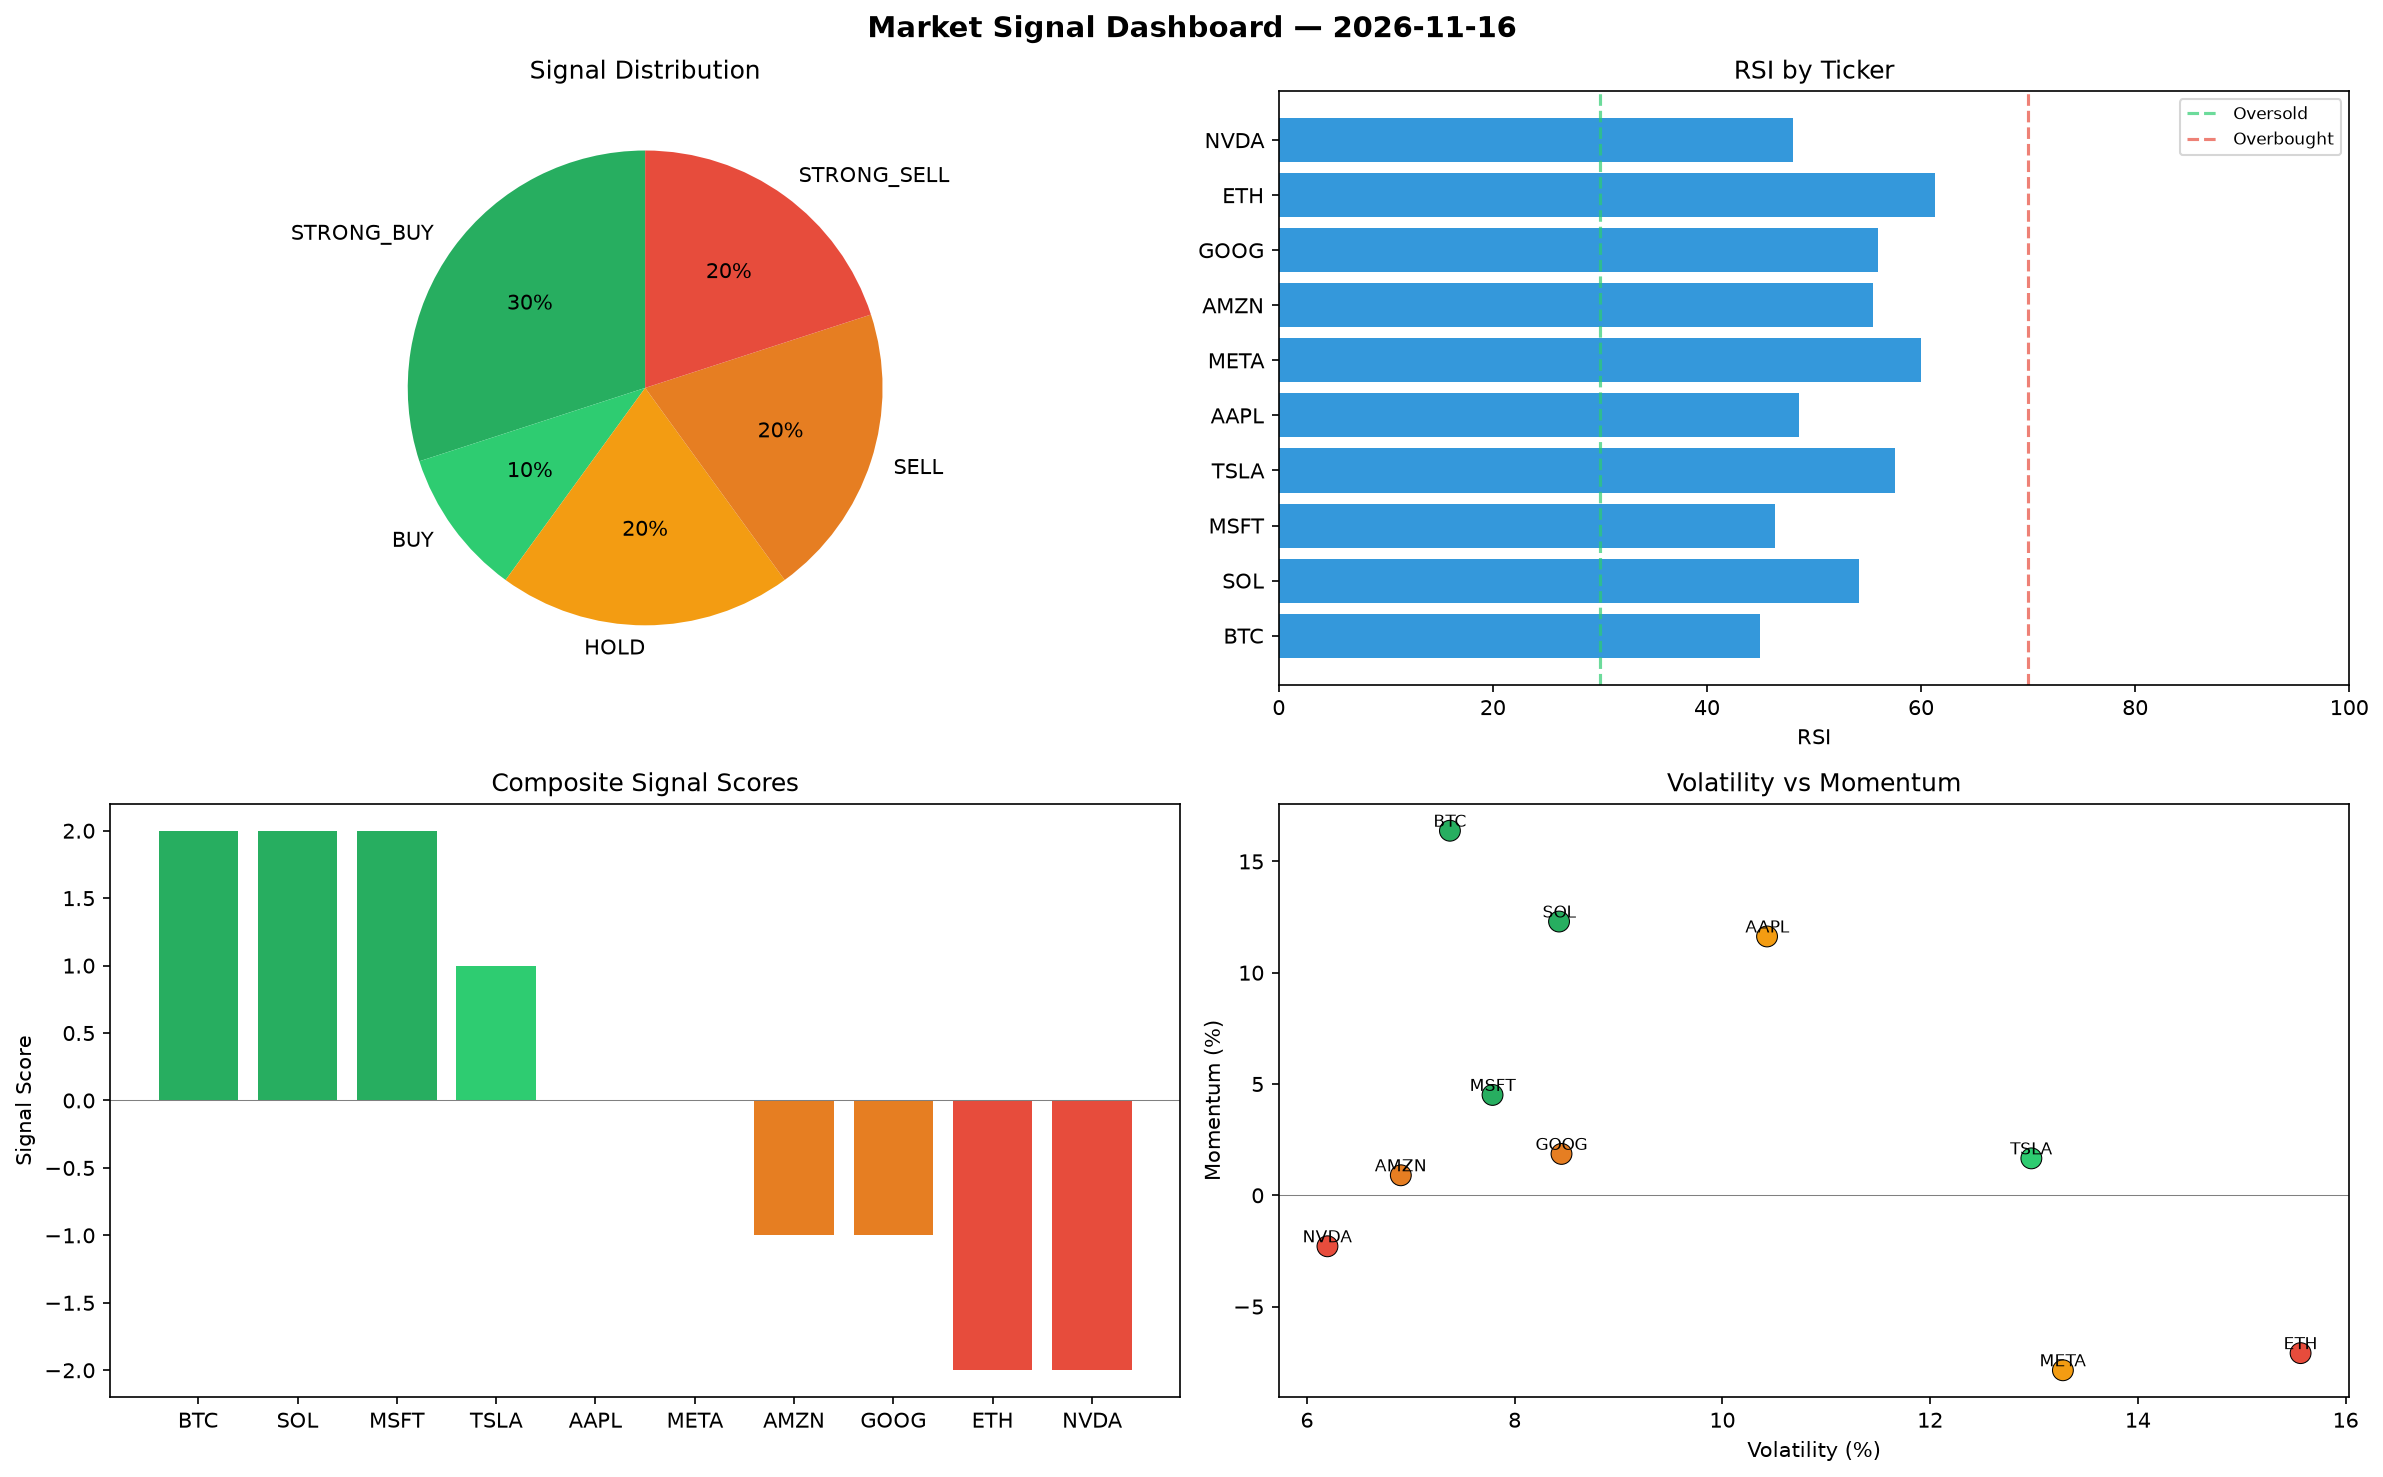
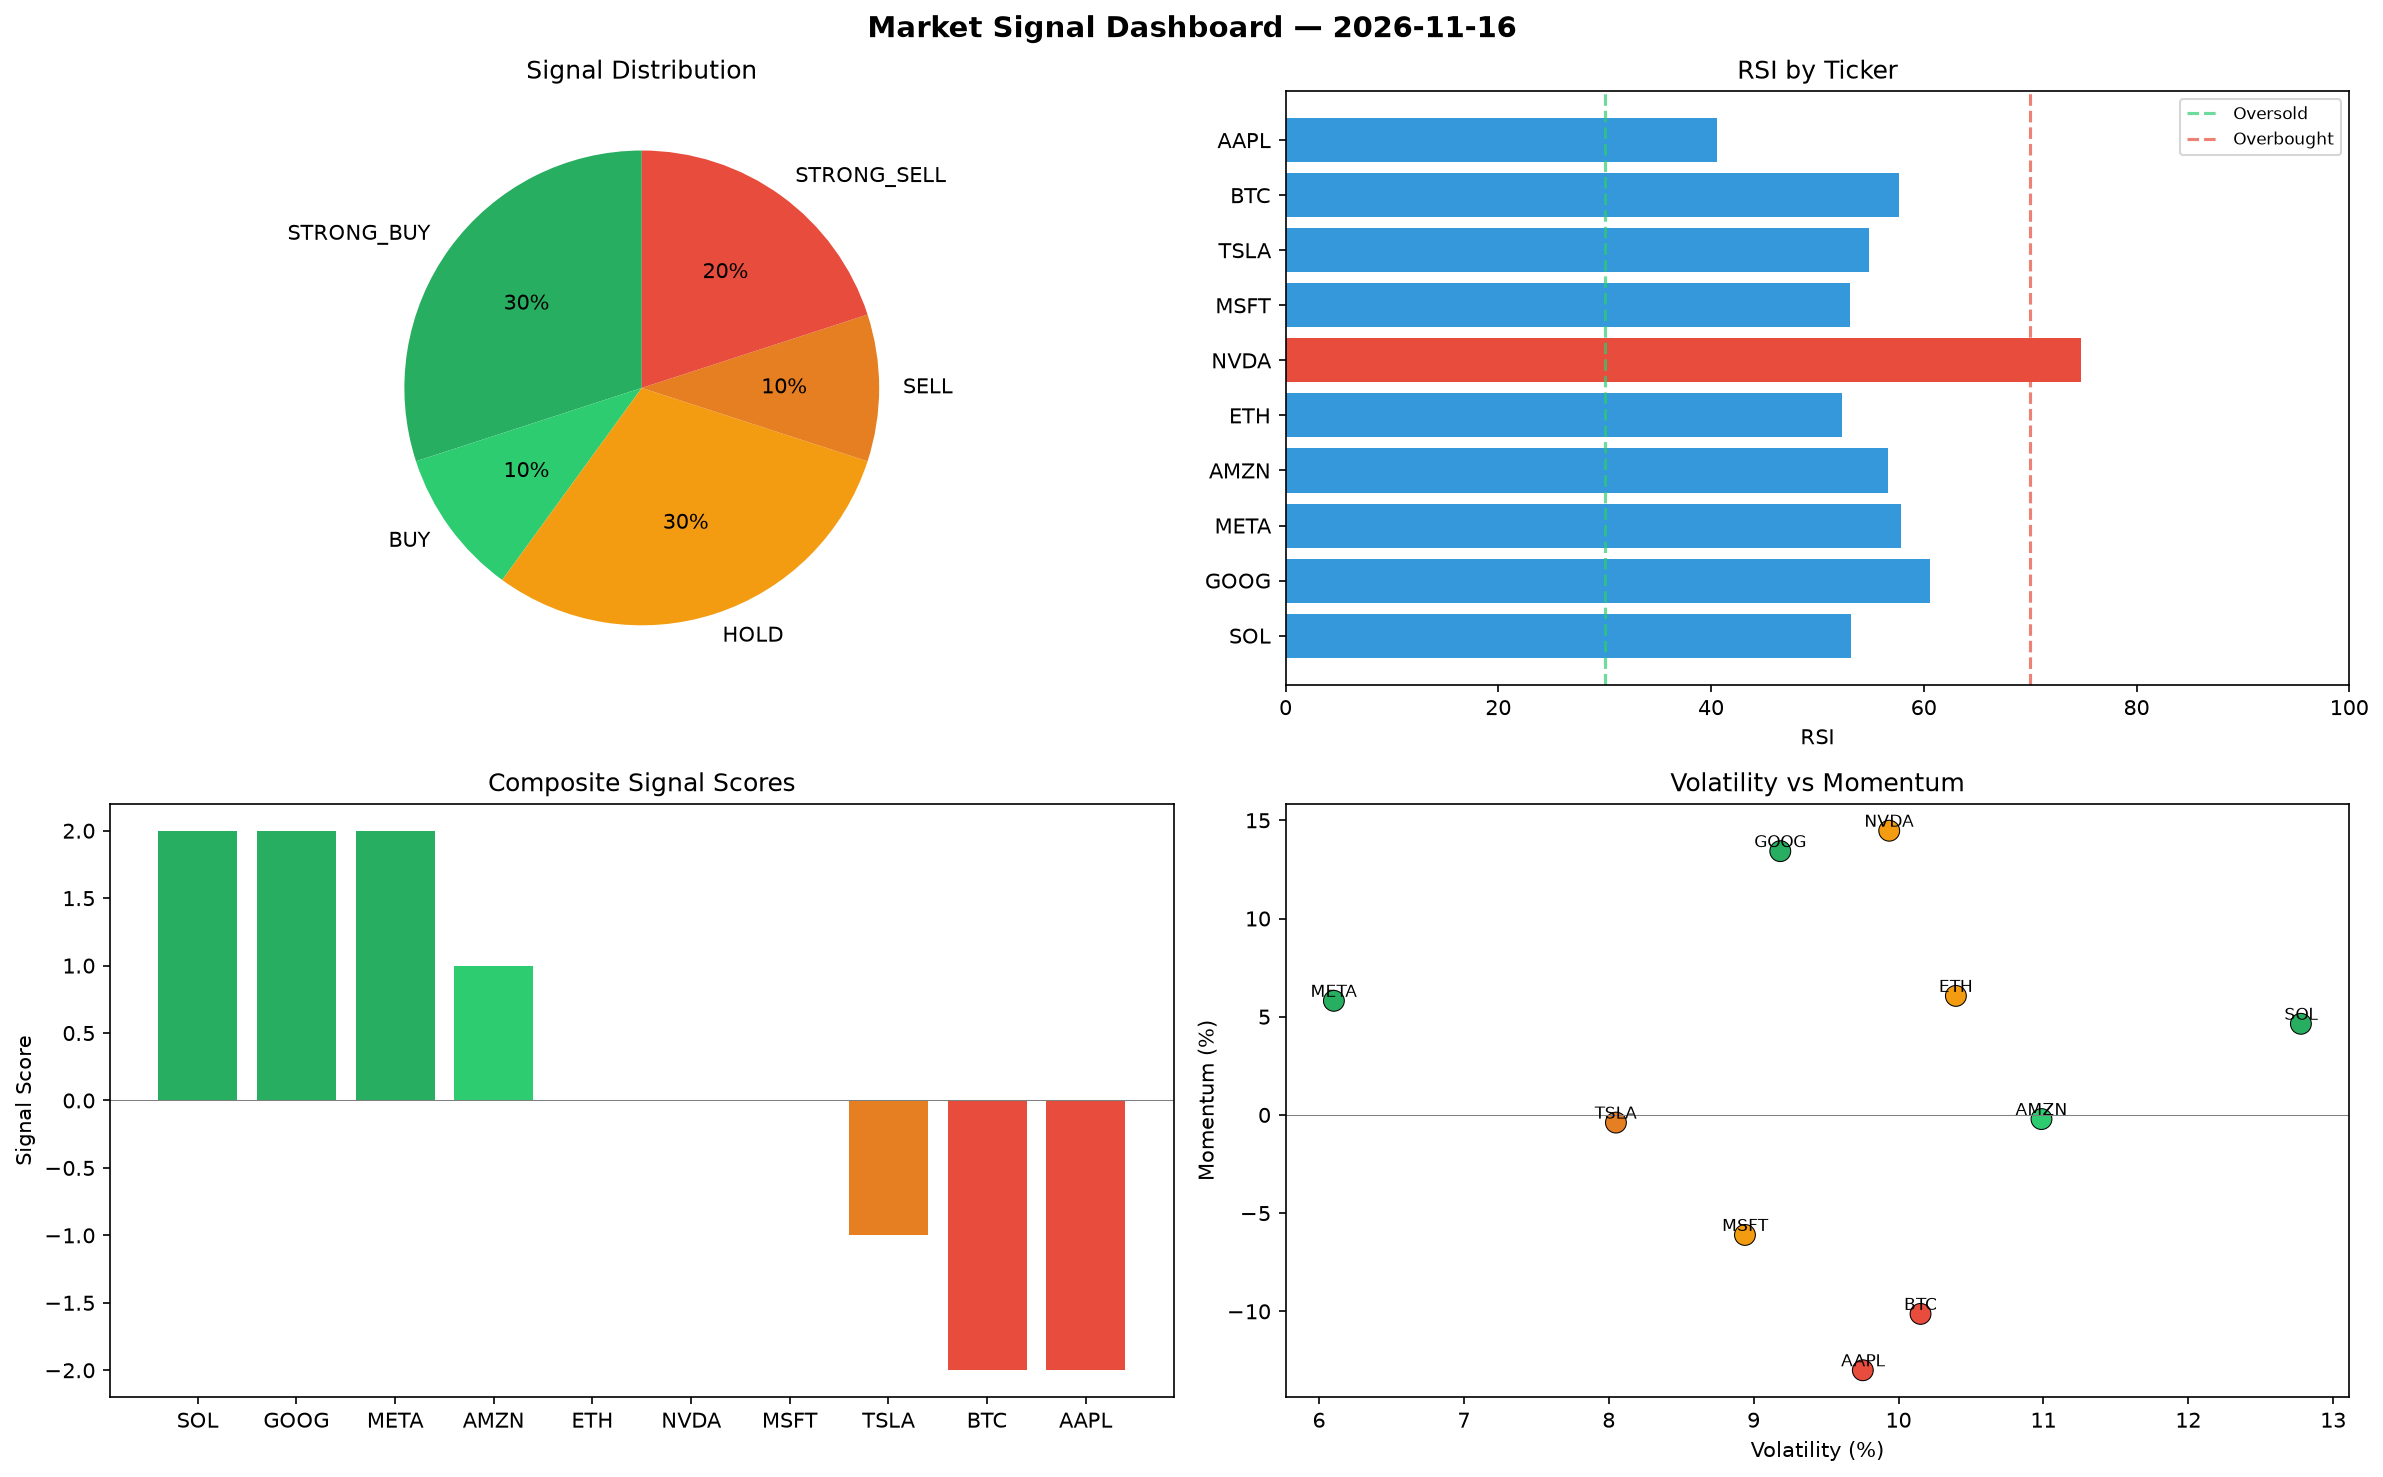
automated-bots: market signals 2026-11-16T10:00

diff --git a/logs/2026-11-16.md b/logs/2026-11-16.md
@@ -1,6 +1,6 @@
 # Market Signal Report — 2026-11-16
 
-**Run ID:** `7cb71b4982` | **Buy:** 4 | **Sell:** 4 | **Hold:** 2
+**Run ID:** `759ef7628b` | **Buy:** 4 | **Sell:** 3 | **Hold:** 3
 
 ![Dashboard](2026-11-16_dashboard.png)
 
@@ -8,28 +8,28 @@
 
 | Ticker | Price | Signal | Score | RSI | Momentum | Confidence |
 |--------|-------|--------|-------|-----|----------|------------|
-| BTC | $771.38 | **STRONG_BUY** | 2 | 44.98 | 0.1638 | 0.5 |
-| SOL | $5411.94 | **STRONG_BUY** | 2 | 54.2 | 0.123 | 0.5 |
-| MSFT | $4320.73 | **STRONG_BUY** | 2 | 46.39 | 0.0451 | 0.5 |
-| TSLA | $3794.98 | **BUY** | 1 | 57.55 | 0.0166 | 0.25 |
-| AAPL | $2514.32 | **HOLD** | 0 | 48.62 | 0.1163 | 0.0 |
-| META | $2757.64 | **HOLD** | 0 | 60.04 | -0.0786 | 0.0 |
-| AMZN | $1385.39 | **SELL** | -1 | 55.55 | 0.009 | 0.25 |
-| GOOG | $1448.34 | **SELL** | -1 | 55.97 | 0.0186 | 0.25 |
-| ETH | $2280.77 | **STRONG_SELL** | -2 | 61.27 | -0.0709 | 0.5 |
-| NVDA | $4017.14 | **STRONG_SELL** | -2 | 48.02 | -0.0229 | 0.5 |
+| SOL | $2608.21 | **STRONG_BUY** | 2 | 53.13 | 0.0464 | 0.5 |
+| GOOG | $3980.31 | **STRONG_BUY** | 2 | 60.6 | 0.1343 | 0.5 |
+| META | $2717.54 | **STRONG_BUY** | 2 | 57.84 | 0.0581 | 0.5 |
+| AMZN | $4390.32 | **BUY** | 1 | 56.66 | -0.0021 | 0.25 |
+| ETH | $1886.15 | **HOLD** | 0 | 52.27 | 0.0606 | 0.0 |
+| NVDA | $4456.51 | **HOLD** | 0 | 74.8 | 0.1447 | 0.0 |
+| MSFT | $2513.07 | **HOLD** | 0 | 53.08 | -0.0611 | 0.0 |
+| TSLA | $4055.83 | **SELL** | -1 | 54.89 | -0.0039 | 0.25 |
+| BTC | $4360.63 | **STRONG_SELL** | -2 | 57.63 | -0.1013 | 0.5 |
+| AAPL | $2767.8 | **STRONG_SELL** | -2 | 40.58 | -0.13 | 0.5 |
 
 ## Delta vs Yesterday
 
 | Ticker | Today | Yesterday | Price Change | Signal Changed |
 |--------|-------|-----------|-------------|----------------|
-| BTC | STRONG_BUY | STRONG_SELL | 📈 135.53% | ⚠ YES |
-| SOL | STRONG_BUY | HOLD | 📈 224.57% | ⚠ YES |
-| MSFT | STRONG_BUY | STRONG_SELL | 📈 27.33% | ⚠ YES |
-| TSLA | BUY | STRONG_SELL | 📈 33.12% | ⚠ YES |
-| AAPL | HOLD | STRONG_SELL | 📈 90.88% | ⚠ YES |
-| META | HOLD | STRONG_SELL | 📈 5.26% | ⚠ YES |
-| AMZN | SELL | BUY | 📉 -61.6% | ⚠ YES |
-| GOOG | SELL | BUY | 📉 -24.53% | ⚠ YES |
-| ETH | STRONG_SELL | HOLD | 📈 12109.69% | ⚠ YES |
-| NVDA | STRONG_SELL | STRONG_BUY | 📉 -27.02% | ⚠ YES |
+| SOL | STRONG_BUY | HOLD | 📈 56.42% | ⚠ YES |
+| GOOG | STRONG_BUY | BUY | 📈 107.4% | ⚠ YES |
+| META | STRONG_BUY | STRONG_SELL | 📈 3.73% | ⚠ YES |
+| AMZN | BUY | BUY | 📈 21.68% | — |
+| ETH | HOLD | HOLD | 📈 9997.16% | — |
+| NVDA | HOLD | STRONG_BUY | 📉 -19.03% | ⚠ YES |
+| MSFT | HOLD | STRONG_SELL | 📉 -25.94% | ⚠ YES |
+| TSLA | SELL | STRONG_SELL | 📈 42.27% | ⚠ YES |
+| BTC | STRONG_SELL | STRONG_SELL | 📈 1231.45% | — |
+| AAPL | STRONG_SELL | STRONG_SELL | 📈 110.12% | — |
